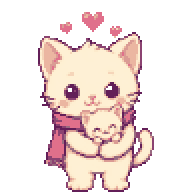
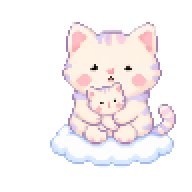
destiny-number: 고양이 12종·대표 고양이 D안 화풍으로 전면 교체
- downloads/cat-style-test/style_d.png 기준(보라 외곽선·흰 스티커 테두리·파스텔·픽셀 그리드)
- 숫자별 12종 + 랜딩 대표 고양이 192px 투명 스프라이트로 통일
- PNG 카드 고양이 192px 정수 배율로 조정, og 이미지도 새 화풍으로 교체
- QA용 375x812 iframe 페이지 임시 포함

diff --git a/destiny-number/index.html b/destiny-number/index.html
@@ -61,7 +61,7 @@
           <div class="scene" aria-hidden="true">
             <img class="scene-art" src="assets/pixel-scene.webp" width="344" height="112" alt="">
             <span class="hud"><i class="hud-heart"></i> 2027</span>
-            <img class="scene-cat" src="assets/cats/cat-hero.png?v=3" width="192" height="192" alt="">
+            <img class="scene-cat" src="assets/cats/cat-hero.png?v=4" width="192" height="192" alt="">
           </div>
 
           <div class="hero-copy">
@@ -125,7 +125,7 @@
       <div class="num-row">
         <span class="num-big" id="num-big"></span>
         <span class="stamp" id="stamp" hidden></span>
-        <img class="num-cat" id="num-cat" src="assets/cats/cat-hero.png?v=3" width="192" height="192" alt="">
+        <img class="num-cat" id="num-cat" src="assets/cats/cat-hero.png?v=4" width="192" height="192" alt="">
       </div>
       <h2 class="nick" id="num-nick"></h2>
       <p class="num-tag" id="num-tag"></p>

diff --git a/destiny-number/app.js b/destiny-number/app.js
@@ -108,7 +108,7 @@
     $('num-tag').textContent = L.tag;
 
     var catEl = $('num-cat');
-    catEl.src = 'assets/cats/cat-' + r.lp + '.png?v=3';
+    catEl.src = 'assets/cats/cat-' + r.lp + '.png?v=4';
     catEl.alt = cat.name + ' 도트 고양이';
     $('cat-name').textContent = cat.name;
     $('cat-line').textContent = cat.line;
@@ -447,7 +447,7 @@
     var key = 'c' + n;
     if (!catCache[key]) {
       var im = new Image();
-      im.src = 'assets/cats/cat-' + n + '.png?v=3';
+      im.src = 'assets/cats/cat-' + n + '.png?v=4';
       catCache[key] = im;
     }
     var img = catCache[key];
@@ -542,7 +542,7 @@
 
     if (catImg) {
       ctx.imageSmoothingEnabled = false;
-      ctx.drawImage(catImg, PX + CW - 210, heroTop - 2, 210, 210);
+      ctx.drawImage(catImg, PX + CW - 192, heroTop - 2, 192, 192);
     }
 
     y = heroTop + 232;

diff --git a/destiny-number/_qa375.html b/destiny-number/_qa375.html
@@ -1,0 +1,7 @@
+<!doctype html>
+<html lang="ko"><head><meta charset="utf-8"><title>QA 375</title>
+<style>
+  html,body{margin:0;padding:0;background:#ffffff}
+  iframe{width:375px;height:812px;border:0;display:block}
+</style></head>
+<body><iframe src="./" title="destiny-number 375x812 QA"></iframe></body></html>
